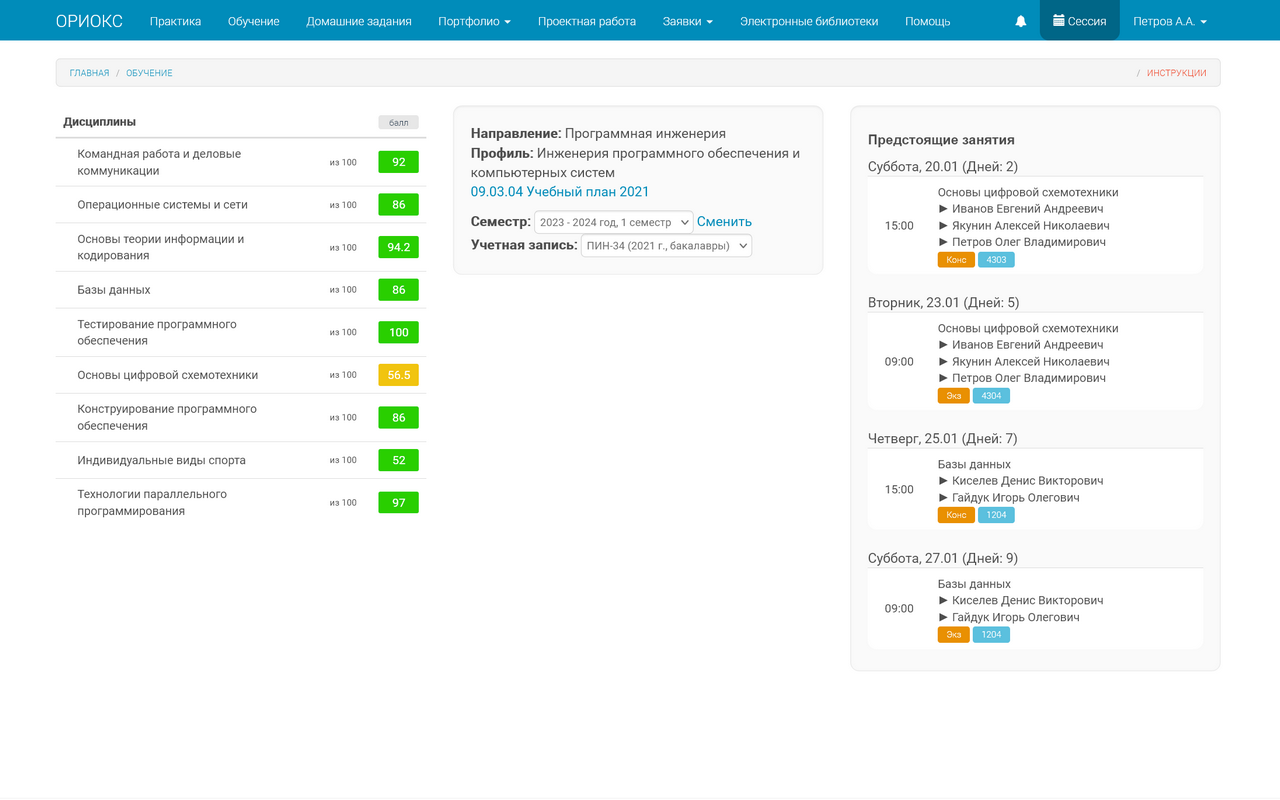
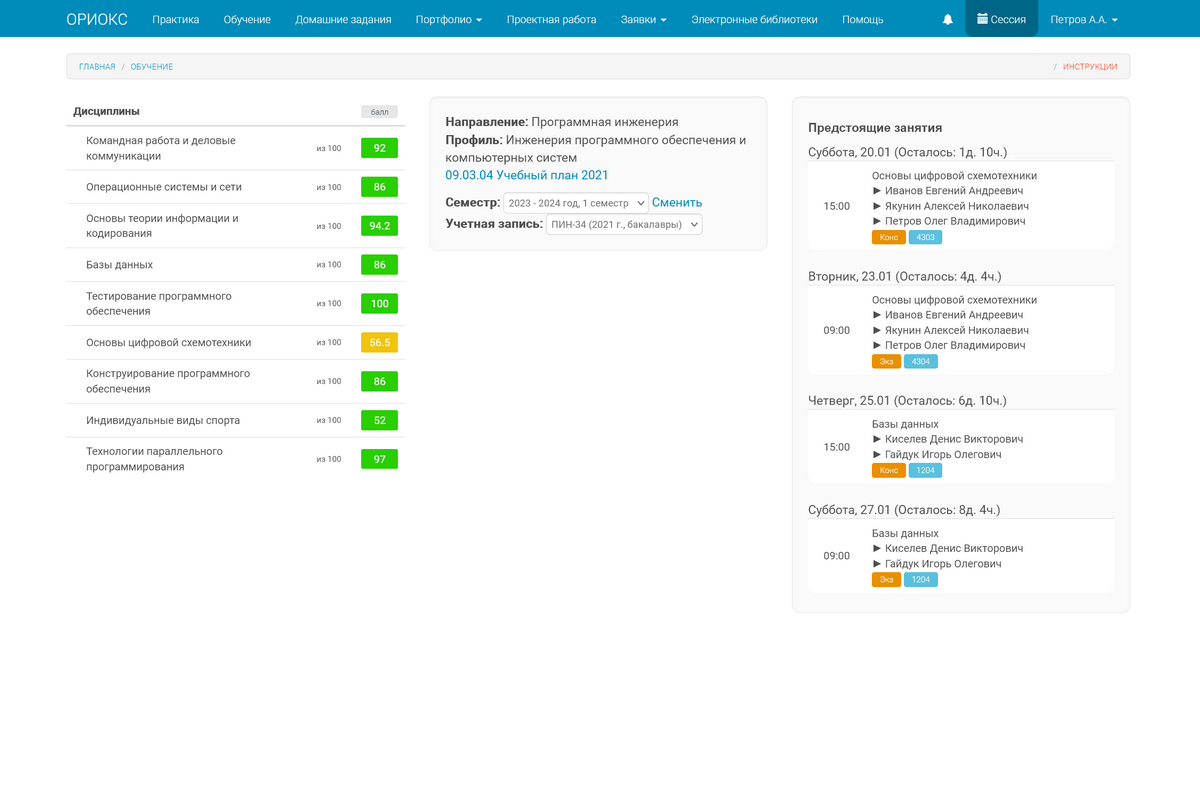
Fix dates operating, update README.md

diff --git a/content_scripts/main.js b/content_scripts/main.js
@@ -6,6 +6,7 @@ try {
     // noinspection JSUnresolvedReference
     metabrowser = chrome;
 }
+const hourLength = 1000 * 60 * 60;
 
 // noinspection JSUnresolvedReference
 /**
@@ -200,11 +201,7 @@ const setExamsSchedule = function () {
     const disciplines = jsonData["dises"];
     const schedule = [];
 
-    let currentDate = new Date();
-    let utcDate = new Date(
-        currentDate.getTime() + currentDate.getTimezoneOffset() * 60 * 1000,
-    );
-    currentDate = new Date(utcDate.getTime() + 3 * 60 * 60 * 1000);
+    let currentDateTime = Date.now();
 
     for (const element of disciplines) {
         const controlForm = element["formControl"]["name"];
@@ -216,27 +213,26 @@ const setExamsSchedule = function () {
         );
 
         const examName = element["name"];
-        const consDate = parseExamDate(
+        const consDateTime = parseExamUTCDateTime(
             element["date_cons"],
             element["time_cons"],
         );
-        const examDate = parseExamDate(
+        const examDateTime = parseExamUTCDateTime(
             element["date_exam"],
             element["time_exam"],
         );
 
-        if (currentDate < consDate)
+        const timeConvertOptions = {
+            weekday: "long",
+            day: "2-digit",
+            month: "2-digit",
+            timeZone: "Europe/Moscow",
+        };
+
+        if (currentDateTime - hourLength < consDateTime)
             schedule.push([
-                consDate.toLocaleDateString("ru", {
-                    weekday: "long",
-                    day: "2-digit",
-                    month: "2-digit",
-                }) +
-                    (consDate.getDate() - currentDate.getDate()
-                        ? ` (дней: ${
-                              consDate.getDate() - currentDate.getDate()
-                          })`
-                        : ` (сегодня)`),
+                consDateTime.toLocaleDateString("ru", timeConvertOptions) +
+                    getTimeLeftString(currentDateTime, consDateTime),
                 [
                     {
                         name: `${examName}\n` + teachersString,
@@ -245,21 +241,13 @@ const setExamsSchedule = function () {
                         time: element["time_cons"],
                     },
                 ],
-                consDate,
+                consDateTime,
             ]);
 
-        if (currentDate < examDate)
+        if (currentDateTime - 2 * hourLength < examDateTime) {
             schedule.push([
-                examDate.toLocaleDateString("ru", {
-                    weekday: "long",
-                    day: "2-digit",
-                    month: "2-digit",
-                }) +
-                    (examDate.getDate() - currentDate.getDate()
-                        ? ` (дней: ${
-                              examDate.getDate() - currentDate.getDate()
-                          })`
-                        : ` (сегодня)`),
+                examDateTime.toLocaleDateString("ru", timeConvertOptions) +
+                    getTimeLeftString(currentDateTime, examDateTime),
                 [
                     {
                         name: `${examName}\n` + teachersString,
@@ -268,8 +256,9 @@ const setExamsSchedule = function () {
                         time: element["time_exam"],
                     },
                 ],
-                examDate,
+                examDateTime,
             ]);
+        }
     }
 
     schedule.sort((a, b) => a[2] - b[2]);
@@ -285,7 +274,7 @@ const setExamsSchedule = function () {
  * @param examTime - The original time
  * @return {Date} The converted date
  */
-const parseExamDate = function (examDate, examTime) {
+const parseExamUTCDateTime = function (examDate, examTime) {
     // prettier-ignore
     const monthStringToNumber = {
         "января": 0,
@@ -297,7 +286,34 @@ const parseExamDate = function (examDate, examTime) {
     const [day, monthString, year] = examDate.split(" ");
     const [hour, minute] = examTime.split(":");
 
-    return new Date(year, monthStringToNumber[monthString], day, hour, minute);
+    // To use time in GMT+3
+    return new Date(
+        Date.UTC(year, monthStringToNumber[monthString], day, hour, minute) -
+            3 * hourLength,
+    );
+};
+
+/**
+ * Counts the time until the event and returns the time left string or an empty string
+ * if it's less than an hour left
+ *
+ * @param {number} now - The current timestamp
+ * @param {Date|number} event - The event {@link Date} object or timestamp
+ * @return {string} The time left string or an empty string
+ */
+const getTimeLeftString = function (now, event) {
+    let timeLeft = event - now;
+
+    if (timeLeft > hourLength) {
+        const days = Math.floor(timeLeft / (hourLength * 24));
+        const hours = Math.floor(
+            (timeLeft - days * hourLength * 24) / hourLength,
+        );
+
+        return ` (осталось: ${days ? days + "д. " : ""}${hours}ч.)`;
+    }
+
+    return "";
 };
 
 /**

diff --git a/background_scripts/scheduleProcessing.js b/background_scripts/scheduleProcessing.js
@@ -6,6 +6,7 @@ try {
     // noinspection JSUnresolvedReference
     metabrowser = chrome;
 }
+const dayLength = 1000 * 60 * 60 * 24;
 
 // noinspection JSUnresolvedReference
 /**
@@ -123,9 +124,6 @@ const getClosestLessons = function (
             (lesson) =>
                 lesson.dayNumber === searchDayNumber &&
                 lesson.weekNumber === searchWeekNumber &&
-                // (currentDayNumber === searchDayNumber
-                //     ? lesson.endTime >= currentTime
-                //     : true) &&
                 !lesson.teacher.includes("УВЦ"),
         );
     }
@@ -330,7 +328,7 @@ metabrowser.runtime.onInstalled.addListener(onAction);
 metabrowser.runtime.onMessage.addListener((request) => {
     if (request.action === "checkUpdates")
         loadValueByKey("updateTime").then((timestamp) => {
-            if (Date.now() - timestamp > 1000 * 60 * 60 * 6) onAction();
+            if (Date.now() - timestamp > dayLength / 4) onAction();
         });
 });
 

diff --git a/README.md b/README.md
@@ -46,9 +46,9 @@
    или [Chrome Web Store](https://chromewebstore.google.com/detail/better-web-orioks/lfklcdejbjncohabmalekhndjjafoacm?hl=ru) (ещё можно нажимать на [бейджики наверху](#better-web-orioks)).
    Второй вариант подойдёт для большинства браузеров, лично проверены `Яндекс.Браузер` (в том числе
    на Android), `Chrome`, `Edge` и `Opera`.
-3. ???
-4. PROFIT
-5. **[Firefox] _Опционально_**: автообновление расширения для `наилучшего опыта использования`:
+2. ??? 
+3. PROFIT
+4. **[Firefox] _Опционально_**: автообновление расширения для `наилучшего опыта использования`:
     1. `Ctrl + Shift + A` или `☰ -> Настройки -> Расширения и темы`
     2. Находим `Better web-ORIOKS` и нажимаем
     3. `Автоматическое обновление -> Включено`
@@ -70,7 +70,7 @@
   не соответствовать действительности, но тут автор полностью невиновный. А для экзаменов указаны
   преподаватели, что указаны прямо в ОРИОКСе
 - Проверка обновления данных расписания происходит при запуске браузера (профиля браузера), установке/обновлении
-  расширения или посещении [запросе к] `orioks.miet.ru/*` раз в 6 часов
+  расширения или посещении [запросе к] `orioks.miet.ru/*`, но не чаще раза в 6 часов
 - Касательно Manifest: в репозитории лежит две версии, `V2` для Firefox (в том числе Android),
   а `V3`, соответственно, для остального. Пока для мобильной версии «Лисы» иначе совсем никак, а для
   старшей банально удобнее
